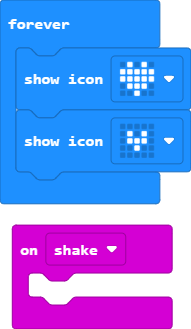
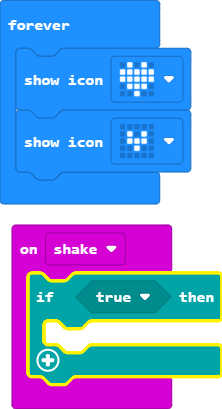
Update main.blocks, main.ts, README.md

diff --git a/main.ts b/main.ts
@@ -1,5 +1,7 @@
 input.onGesture(Gesture.Shake, function () {
-	
+    if (true) {
+    	
+    }
 })
 basic.forever(function () {
     basic.showIcon(IconNames.Heart)

diff --git a/README.md b/README.md
@@ -1,5 +1,13 @@
 # TEST 
 
+### @explicitHints true
+
+### ~button /#tutorial:/tutorials/collect-the-clovers
+
+Try this tutorial!
+
+### ~
+
 ## 1 Unlugged test @unplugged
 (This is how you insert link to  [words](https://youtu.be/qqBmvHD5bCw)).
 ![This is how you insert image with resizing properties]<img src="https://raw.githubusercontent.com/detide/testwithbeta/master/githubpic/https___for.edu.sg_1wildlife.png" width="300">
@@ -7,7 +15,7 @@
 ## 2 fullscreen test @fullscreen
 
 secondary button ``||basic:show leds||``
-primary button ``|input.onGesture:Shake|`` 
+primary button ``|input:Shake|`` 
 seems like primary button is purple?
 
 ## 3 Showdialog test @showdialog
